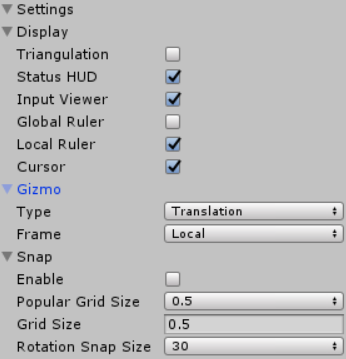
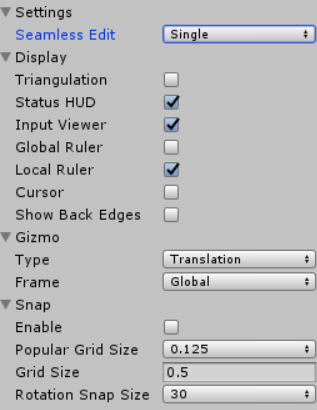
2.0.6 Manual update

Changed region(s): [[0.0, 0.0, 1.0, 1.0], [0.4543, 0.0613, 1.0, 0.7354]]

diff --git a/releasenotes_UModeler_2.0.rst b/releasenotes_UModeler_2.0.rst
@@ -4,6 +4,14 @@ UModeler 2.0
 
  .. figure:: /images/UModeler_Banner.png
  
+Version 2.0.6
+==================================================================================
+ - Feature : New snapping - Snap to X-axis or Y-axis of the current placed points. This makes drawing a rectangle and a right angle triangle etc possible using ``Line tool``
+ - Feature : Seamless Editing - UModeler objects in a scene can be edited seamlessly. (See :ref:`here <seamless-edit>`)
+ - Enhancement : Edge display - Disabled showing invisible parts' edges.
+ - Fix : Added recalculating tangents (See :ref:`here <recalculate-tangents>`)
+ - Fix : Z-fighting of the polygon selection
+
 Version 2.0.51
 ==================================================================================
  - Hotfix : Adding/Removing material in Material tool wreren't allowed.

diff --git a/settings.rst b/settings.rst
@@ -6,6 +6,24 @@ Settings
    :scale: 80 %
 	
    UModeler Settings
+   
+.. _seamless-edit:
+   
+Seamless Edit
+ Selects the UModeler object under the mouse cursor every time the mouse moves. The set affected by this mode is decided according to which category is chosen.
+ 
+ - ``Single`` : Only the selected object is a subject to be edited.
+ - ``All`` : All the UModeler objects in a scene are subjects to be edited.
+ - ``Group`` : All the UModeler objects under the identical root object are subjects to be edited.
+ 
+.. tip::
+
+   | You can disable ``Seamless Edit`` holding ``SHIFT`` while moving the mouse.
+   
+.. raw:: html
+
+ <iframe width="560" height="315" src="https://www.youtube.com/embed/HygWp8NG6PY" frameborder="0" allow="autoplay; encrypted-media" allowfullscreen></iframe>  
+`Seamless Edit Demo`
  
 Display
 ========

diff --git a/misctools.rst b/misctools.rst
@@ -77,7 +77,12 @@ Backface
  backfaces on/off
 
 Generate Lightmap UVs
- If it's on, Secondary UVs for lightmap will be generated every time UModeler mesh changes. 
+ If this is on, Secondary UVs for lightmap will be generated every time UModeler mesh changes. 
+
+.. _recalculate-tangents:
+ 
+Recalculate Tangents
+ If this is on, tagent vectors will be calculated every time UModeler mesh changes. If the materials in UModeler have normal textures, this should be on.
  
 .. figure:: /images/UModeler_GenerateLightmapUVs.gif
    :scale: 95 %

diff --git a/drawingtools.rst b/drawingtools.rst
@@ -37,7 +37,12 @@ Interface
    :scale: 95 %
 
    Line Tool Demo
+   
+.. figure:: /images/UModeler_SnapToXY.gif
+   :scale: 95 %
 
+   Snap To X or Y axis line. The cursor color change to pink when it is snapped to X or Y axis of the former points. (Available from 2.0.6)
+   
 ---------------------------------------------------------------------------------------------
 
 Arc Tool
